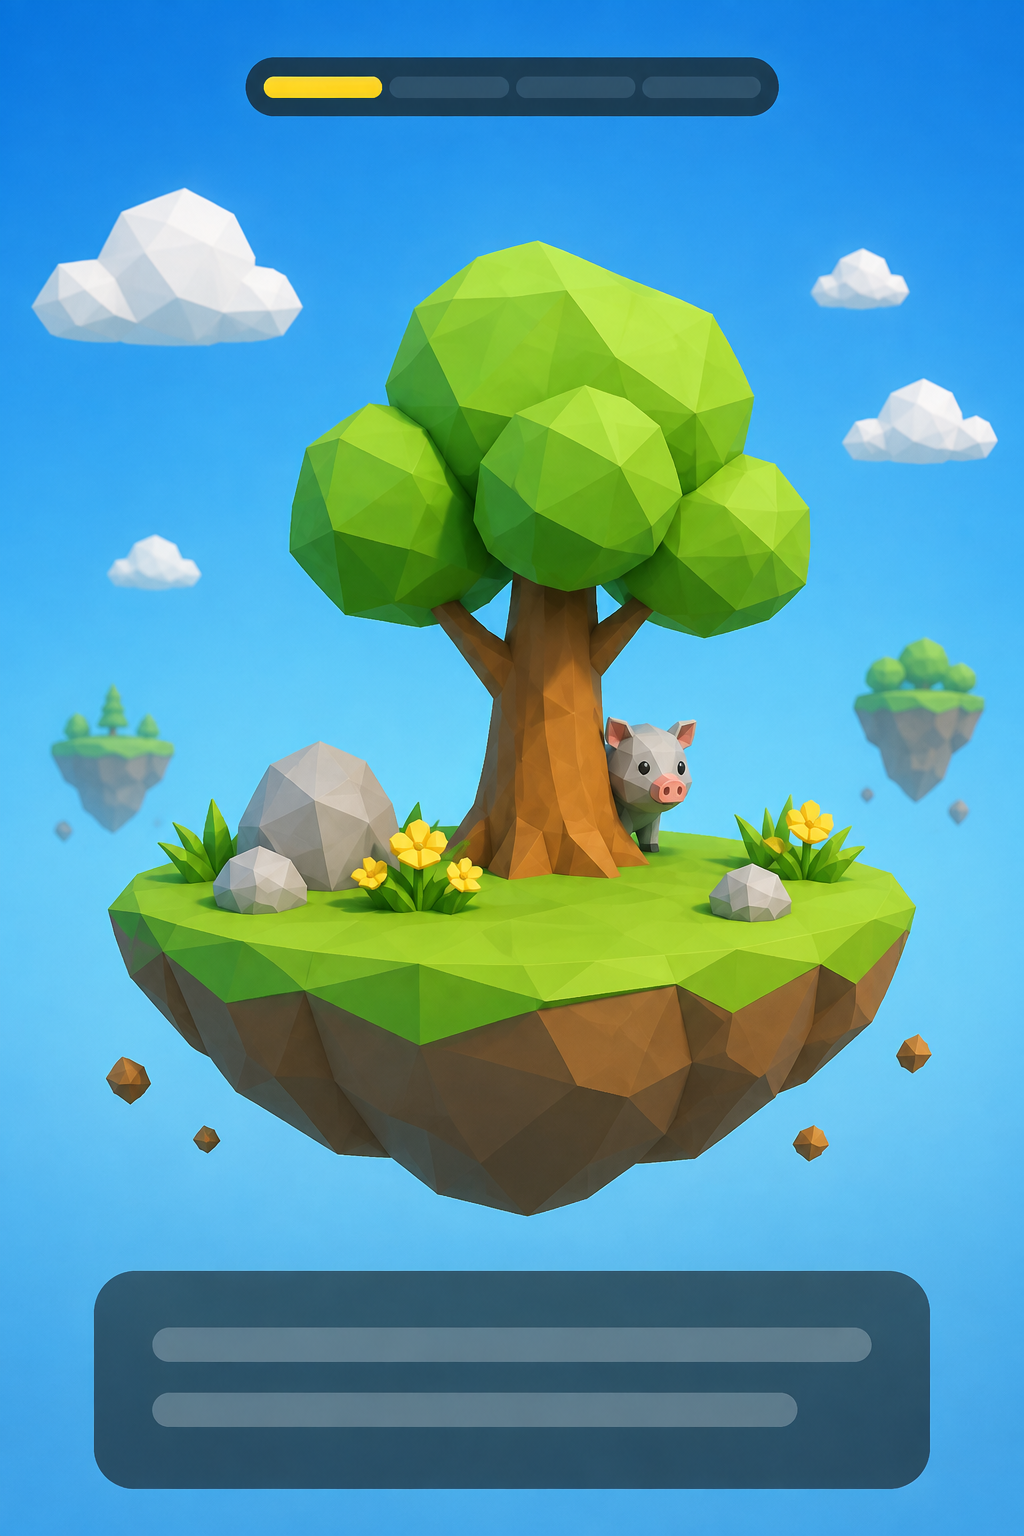
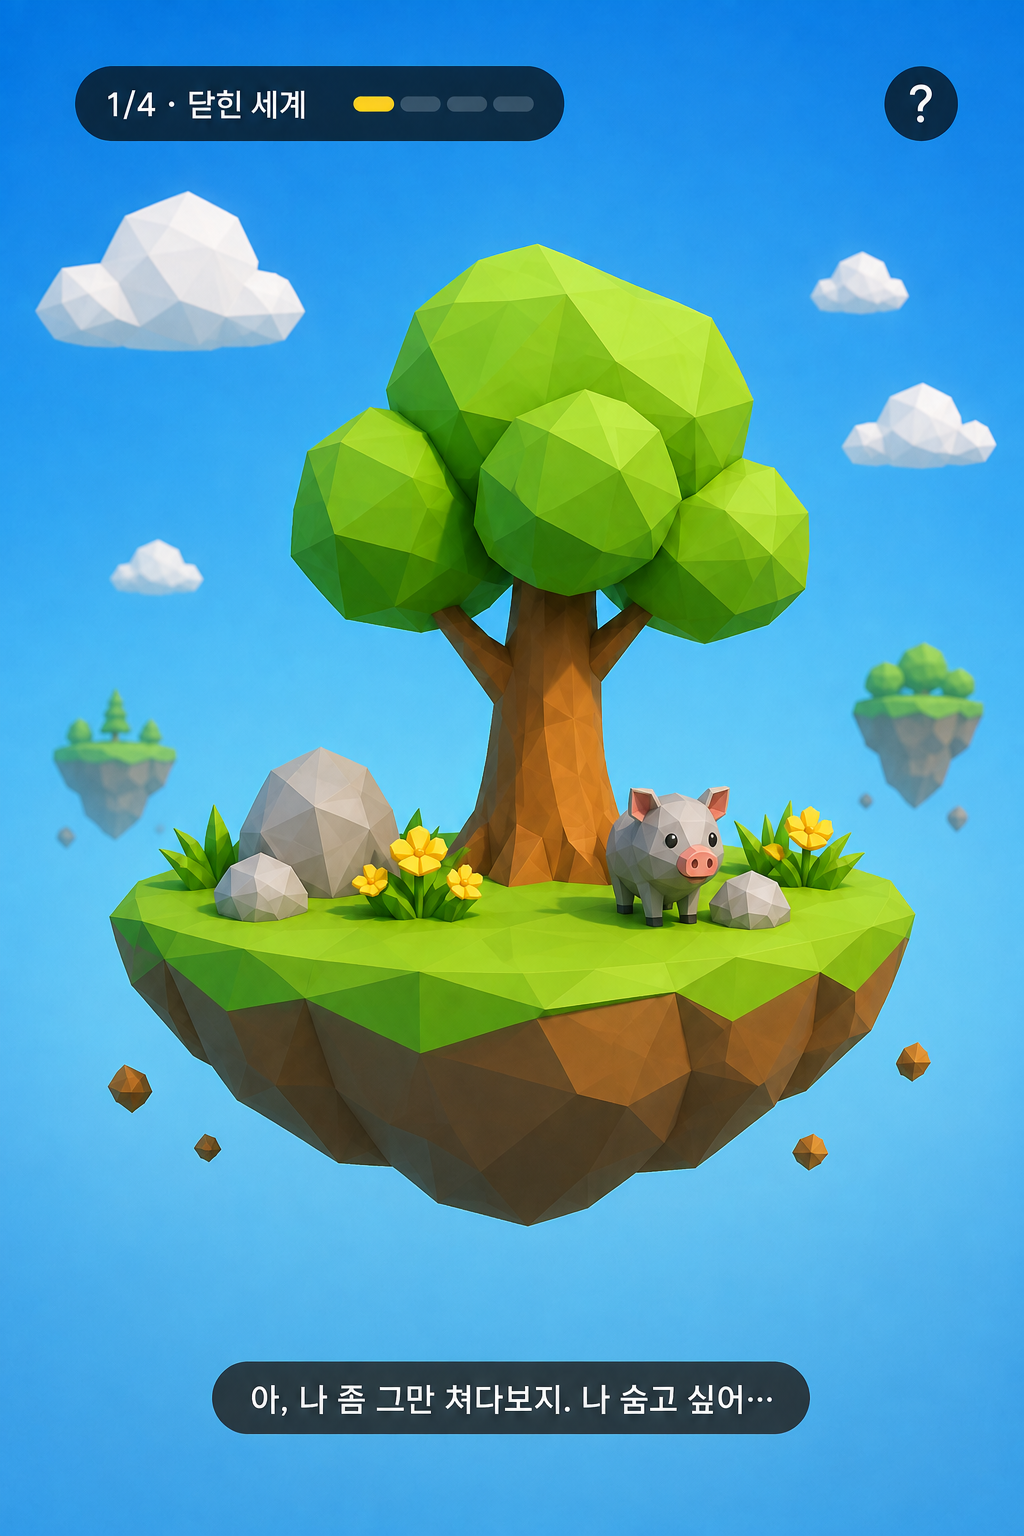
docs: refresh chapter screen illustrations and validation

diff --git a/docs/2026-09-07-app-screen-image-prompts.md b/docs/2026-09-07-app-screen-image-prompts.md
@@ -1,0 +1,36 @@
+# 앱 화면 컨셉 이미지 — 2026-09-07
+
+모드: 내장 이미지 생성 도구의 기존 이미지 편집. 실제 앱 실행 화면/실기기 캡처가 아닌 설명용 컨셉이다.
+기존 네 가로 챕터 그림은 보존하고, 네 세로 화면의 빈 UI를 코드에 있는 문구와 작은 안내로 교체한다.
+카메라 장면, 크기, 메시·가림은 예시이며 실측 증거가 아니다. 최종 이미지 검토와 채택 여부는 아래에 기록한다.
+
+## 채택 결과
+
+네 화면 모두 1024×1536 PNG이며 기존 세로 이미지 경로에 저장했다. 원 생성물은 그대로 보존했다.
+한글 문구, 낮은 설명창, 작은 돼지, 바닥 채움 제거, 비교 카드 두 축과 세 CTA를 눈으로 확인했다.
+진행 표시의 모양·위치, 서체·줄바꿈, 방의 생김새는 구현을 설명하기 위한 재구성으로 픽셀 단위 일치가 아니다.
+Chapter 4의 완료 문구는 정상 완료 경로의 **화면 예시**이며 실제 기기 검증 완료를 뜻하지 않는다.
+Chapter 3의 보이는 돼지 일부는 찾는 장면의 개념 표현으로 4/5 가림·3/5 발견 기준을 측정한 증거가 아니다.
+
+| 챕터 | 프로젝트 저장 경로 | SHA-256 |
+| --- | --- | --- |
[4 lines of base64/hex data omitted]
+
+## Chapter 1
+
+Use case: ui-mockup. Asset: polished Korean iOS educational app screen CONCEPT for Chapter 1 of a SceneKit/RealityKit tutorial. Edit target: supplied portrait image. Preserve its beautiful low-poly floating island, blue sky, green tree, flowers and gentle sunlight. Output portrait 1024x1536, no phone frame. Replace ALL blank placeholder UI. Top LEFT small black 76%-opaque capsule with white semibold exact text "1/4 · 닫힌 세계" and four TINY 9x4-like progress ticks inside, only first yellow. Top right small black circular question-mark help button. Keep upper UI within 8% of image height. Put small gray low-poly pig on the grass beside the tree, fully visible, height about one fifth of the trunk, not huge. Remove huge bottom blank panel. In its place at y around 82% a low black translucent rounded caption, height only 5% of image, with white readable Korean exact text "아, 나 좀 그만 쳐다보지. 나 숨고 싶어…". No other text. Refined crisp Korean typography, no faux text lines, no broad progress bar, no scan mesh, no dotted routes, no invented buttons or labels. Preserve the reference's illustrated atmosphere. Scene stays dominant and unobstructed. This is illustrative UI not a device capture.
+
+## Chapter 2
+
+Use case: ui-mockup. Asset: polished Korean iOS AR-scanning tutorial screen CONCEPT. Edit target: supplied portrait image. Preserve the warm low-poly living room, sofa, lamp, wooden floor and sunlight. Portrait 1024x1536 no phone frame. Replace all current UI and the dense scan visualization. Top LEFT small black 76%-opaque capsule, white semibold exact text "2/4 · 현실 열기", four TINY progress ticks inside only first two yellow. Top RIGHT small black circle with white question mark. Immediately below header two SMALL dark chips: mint check + exact text "공간 12개 영역"; mint check + "바닥 확인됨". UI top combined <=10% height. The central camera room must be clearly visible: sparse thin cyan triangle EDGES on limited measured sofa/wall patches, sparse thin yellow triangle EDGES on some floor patches, no filled polygons, no yellow carpet fill, no lattice covering entire room, no glowing nodes. Keep most surfaces unobstructed. No pig in Chapter 2. Bottom small dark rounded guidance bar of 4% height with white exact text "바닥과 공간을 찾았어. 준비되면 시작해줘." Then yellow rounded primary button below of 5% height, black exact text "숨바꼭질 시작". Keep bottom group within10% height with margin. Crisp accurate Korean, comfortable margins. No fake labels identifying furniture, no scan percentage, no giant panels, no dummy lines, no invented controls. This is an illustration of measured surface feedback, not an actual AR scan.
+
+## Chapter 3
+
+Use case: ui-mockup. Asset: polished Korean iOS AR hide-and-seek tutorial screen CONCEPT. Edit target: supplied portrait image. Preserve the beautiful warm low-poly living room with sofa arm, lamp, wood floor, small gray pig partly visible from behind the left edge of sofa. Pig stays very small relative to sofa, about 18cm against 80cm sofa, never fills camera; do not enlarge it. Portrait 1024x1536, no phone frame. Replace ALL existing blank UI with compact real app guidance. Top LEFT small black 76%-opaque capsule, exact white Korean label "3/4 · 현실 숨바꼭질", with four TINY progress ticks inside first three yellow. Top RIGHT black circular white question-mark help button. No giant top bar. Bottom dark translucent rounded guidance card only6% image height, modest left/right margins, exact Korean in two readable lines: "옆으로 움직이거나 카메라 방향을 바꿔" and "피기를 찾아봐." The middle90% of room remains visually open. No route line, no reticle in searching phase, no scan mesh, no arrows, no discovery button, no percentage, no object bounding boxes, no placeholder text lines. Crisp accurate Korean typography. This is a UI illustration after hiding while searching, not proof of actual five-point occlusion.
+
+## Chapter 4
+
+Use case: ui-mockup. Asset: polished Korean iOS tutorial Chapter 4 comparison screen CONCEPT. Edit target: supplied portrait image; preserve deep navy-to-teal palette, yellow CTA, blue SceneKit/mint RealityKit comparison accents, but replace all blank skeleton bars with legible accurate interface and simplify layout. Portrait1024x1536 no phone frame. Top left small black capsule exact "4/4 · 두 세계 비교" and four TINY yellow progress ticks, top right question-mark circle. Main left-aligned content below: small gold "CHAPTER 4 · COMPARISON"; bold white title "두 세계의 책임을 비교해봐"; smaller white subtitle "같은 피기를 움직여도 세계, 좌표, 앞뒤 관계를 만드는 주체는 달라." Rounded dark teal summary with mint check, title "현실 숨바꼭질을 끝냈어", supporting copy "실제 물체 뒤로 숨기고, 직접 움직여 피기를 다시 찾는 흐름까지 완료했어." Next two dark rounded comparison cards, each question then TWO SIDE-BY-SIDE answer panels: first question "세계를 어디서 얻는가?", blue label "SCENEKIT · 닫힌 세계" answer "개발자가 노드와 좌표로 구성한다.", mint label "REALITYKIT · 현실 연결" answer "AR session이 관찰한 현실 공간을 함께 사용한다."; second question "위치의 기준은 무엇인가?", same labels, respective answers "장면 원점과 부모 노드가 기준이다." and "현실의 추적 좌표와 anchor가 기준이다." Generous readable text, not tiny cramped. Remaining questions are offscreen scroll content, do not cram extra cards. Bottom dark fixed action area with THREE full-width buttons stacked vertically: yellow primary black text "튜토리얼 완료"; outlined secondary white "Chapter 3 다시 하기"; subdued tertiary white "처음부터 다시 보기". No dummy blank lines, no decorative charts, no invented metrics. This illustrates completed-route design, not verified device completion.

diff --git a/docs/LEARNING_LOG.md b/docs/LEARNING_LOG.md
@@ -28,6 +28,50 @@
 
 ## 항목
 
+### L-20260907-167 — 예제의 테스트 출처 주석이 존재하지 않는 파일을 가리킴
+
+- 상태: 해결
+- 발생 태스크: AR 사용성 개선 4 — 문서 출처 정확성
+- 재현: 스캔 예제의 Contract tests 주석과 `PiggyEscape/PiggyEscapeTests/RealityMeshScanProjectorTests.swift` 경로를 대조했다.
+- 관찰: 해당 파일이 없는데도 기존 gate는 주석의 존재만 확인해 통과했다.
+- 영향: 독자가 예제의 검증 근거를 따라갈 수 없고, 없는 테스트를 존재하는 것처럼 설명할 수 있다.
+- 원인: 출처 주석의 형식과 실제 파일 존재 여부가 분리되어 있었다.
+- 조치: 없는 경로는 제거하고 모든 예제의 Production/Contract tests 출처 파일 존재 여부를 content gate에서 검사한다. 문서를 맞추기 위한 빈 테스트는 추가하지 않는다.
+- 검증: 새 출처 검사가 실제로 없는 `RealityMeshScanProjectorTests.swift`와 `RealityWalkClearanceTests.swift` 두 경로를 실패로 검출했다. 허위 선언 제거 뒤 최종 content gate exit 0, 독립 iPhoneOS 예제 12/12 typecheck를 확인했다. 모든 Production/Contract tests 선언은 저장소 내부의 실제 파일인지 검사한다.
+
+### L-20260907-166 — 튜토리얼 Step의 세 번째 설명 문단은 버려짐
+
+- 상태: 해결
+- 발생 태스크: AR 사용성 개선 4 — 학습 문서와 이미지 연결
+- 재현: `bash scripts/build-docc-site.sh /tmp/piggy-polish-image-check`.
+- 관찰: 작성 중 Chapter 3의 Step에 추가한 학습 sheet 설명이 세 번째 문단이 되어 extraneous element 경고를 발생시켰다. 경고를 실패로 처리하는 build gate가 exit 1로 중단했다. 이후 재시도에서는 해당 경고가 사라졌으나 예제 파일 교체 중의 resource missing을 관찰했다.
+- 영향: 그 문단의 학습 설명이 산출물에서 누락될 수 있다.
+- 원인: DocC Step은 지시 문단 하나와 선택적인 캡션 문단만 허용한다.
+- 조치: 해당 학습 설명을 Section 본문으로 옮기도록 문서 작성에 반영한다. 파일 교체 중의 일시적 스냅샷을 최종 결과로 평가하지 않고, 작성 완료 보고 뒤 통합 gate를 실행한다.
+- 검증: 최종 출처·캡션 수정까지 포함하여 `/tmp/piggy-ar-polish-docc-final`로 archive를 새로 빌드해 경고 없이 exit 0. 구조·이미지 검증과 desktop/mobile × light/dark의 44회 렌더, 내부 링크 100개, no-slash 이동 10개도 exit 0으로 확인했다.
+
+### L-20260907-165 — 격리된 Release 빌드가 workspace 로딩 전에 종료됨
+
+- 상태: 해결
+- 발생 태스크: AR 사용성 개선 5 — generic iPhoneOS Release 확인
+- 재현: `xcodebuild -workspace PiggyEscape.xcworkspace -scheme PiggyEscape -configuration Release -destination 'generic/platform=iOS' -derivedDataPath /tmp/piggy-ar-polish-release CODE_SIGNING_ALLOWED=NO build`.
+- 관찰: 기본 격리 환경에서 cache/log 접근 거절과 workspace 인식 오류, exit 66. 컴파일 단계에는 도달하지 않았다.
+- 영향: Release 검증이 아직 성립하지 않았다. 이전 Swift 5/6 Debug compile 결과와 이번 정책 48/48은 별개로 유효하다.
+- 원인/가설: 개발 도구의 workspace 및 캐시 접근 제한을 먼저 확인한다.
+- 조치: 경로를 읽기 전용으로 확인한 뒤 동일 iPhoneOS 빌드에 필요한 권한으로 재실행한다. Simulator를 부팅하거나 대상으로 선택하지 않는다.
+- 검증: 경로와 workspace 파일은 존재했다. 필요한 개발 도구 접근 권한으로 같은 generic iPhoneOS Release 명령을 재실행해 exit 0과 BUILD SUCCEEDED를 확인했다. 실제 기기 실행·시각 수용은 포함하지 않았다.
+
+### L-20260907-164 — 공개 문서 확인과 브라우저 gate의 환경 권한 경계
+
+- 상태: 해결
+- 발생 태스크: AR 사용성 개선 4–5 — DocC·공개 화면 검증
+- 재현: 공개 튜토리얼 URL 열기, 기본 격리 환경의 `gh repo view` 및 `npm run test:docc-browser`.
+- 관찰: 웹 읽기는 safe-open 오류, 저장소 읽기는 연결 실패, 브라우저 gate는 `listen EPERM 127.0.0.1`로 종료했다. 권한을 확보한 HTTP 확인은 200, 저장소 조회는 정확한 공개 저장소와 기존 성공 배포를 반환했다.
+- 영향: 사이트 장애나 코드 회귀가 아니라 접근 경로별 검증 한계다. 공개 사이트는 9월 3일 버전으로 최신 개선은 아직 미배포다.
+- 원인/가설: loopback listen 제한은 이전 L-20260903-157과 같은 환경 제한이다. 웹 읽기의 safe-open 이유는 확인하지 못했다.
+- 조치: 브라우저 검사에 필요한 loopback 및 실행 권한을 확보해 동일 gate를 다시 실행한다. Simulator를 대체 수단으로 실행하지 않는다.
+- 검증: 순수 Swift 정책은 같은 체크포인트에서 48/48·0 failures 재확인. 필요한 권한으로 재실행한 브라우저 failure contract 13/13·0 failures·exit 0. 공개 overview도 실제 브라우저에서 정상 표시되었다.
+
 ### L-20260907-163 — 최신 AR 사용성 변경의 실기기 검증은 연결 불가로 보류
 
 - 상태: 실기기 대기

diff --git a/docs/WORK_LOG.md b/docs/WORK_LOG.md
@@ -4,6 +4,8 @@
 
 ## 현재 인수인계
 
+- **2026-09-07 이미지·문서 최종 로컬 검증**: 네 세로 화면을 작은 HUD·읽을 수 있는 한국어 안내·채움 없는 스캔 선·작은 돼지·비교 카드가 보이는 1024×1536 설명용 컨셉으로 교체했다. 기존 가로 그림 네 장은 보존했다. [이미지 제작·채택 기록](2026-09-07-app-screen-image-prompts.md)에 저장 경로·원본 보존·해시·표현 한계를 남겼다. 최종 content gate와 독립 예제 12/12, 경고 없는 DocC archive, 이미지 8개의 해시·완전 디코딩·산출물 일치, 44회 브라우저 렌더·내부 링크 100개·no-slash 이동 10개가 모두 통과했다. generic iPhoneOS Release도 exit 0이며 AppIntents 의존성이 없는 프로젝트의 metadata 경고 1건만 있었다. 공개 배포는 최종 검토 후 진행한다. 실기기 연결이 어려워 실제 화면·LiDAR 수용은 계속 대기하며 Simulator는 사용하지 않았다.
+
 - **2026-09-07 추가 사용성 체크포인트**: `codex/ar-usability-polish`에서 [AR 개선 계획](superpowers/plans/2026-09-07-ar-usability-polish.md) 1–3의 코드를 구현했다. 큰 AR 설명창을 작은 챕터/상태 HUD와 별도 학습 sheet로 분리했고, 실제 frame의 메시·바닥·tracking을 4Hz로 계속 표시한다. 채움 없는 실제 삼각형 최대 120개와 선택 전 옆면/거리/바닥 preview를 추가했다. 돼지는 측면 경로를 실제 몸통 convex cast로 검사한 뒤 제자리 회전·0.45m/s scene-time 이동을 사용하며, 이동 중 장애물/중단이면 선택으로 복구한다. 코드 검토의 sheet 뒤 발견 콜백·불안정 tracking·C3 busy 상태·가로 안내 clipping을 보수했다.
 - **이번 검증과 다음 작업**: 실제 production Swift를 사용하는 host XCTest 48/48·0 failures, generic iPhoneOS Swift 5와 Swift 6 strict app/test bundle compile/link 각각 exit 0이며 테스트 정적 inventory 222개다. 222개 전체의 iPhone runtime과 AR 시각 수용을 실행한 것은 아니다. 사용자가 현재 iPhone 연결이 어렵다고 답했고 Simulator는 실행하지 않았다. 다음은 새 HUD/측면 경로에 맞춘 **DocC·예제 코드·학습 이미지 교체와 공개 Pages 동기화**이며 아직 그 변경을 배포하지 않았다. 아래 기록의 190개/9월 3일 Pages 배포는 직전 기준선이다.
 - **2026-09-07 DocC 정합화 체크포인트**: 네 챕터와 심화 문서를 앱 학습 창의 관찰→의미→책임 코드→복구 흐름에 맞췄다. Chapter 2는 first-ready latch와 최대 4Hz 현재 telemetry, 긴급 tracking 변화, 실제 삼각형 최대 120개의 채움 없는 선, 현재 상태 CTA와 중앙 preview·tap 재검사를 설명한다. Chapter 3은 bounded 측면 route·몸통 `convexCast`, 제자리 회전·0.45m/s scene-time 이동, live obstruction·tracking 무효·학습 sheet 수명을 연결한다. 기존 12개 예제·step pairing을 유지했으며 content gate와 독립 iPhoneOS type-check 12/12가 통과했다. 실제 LiDAR 시각 수용과 공개 Pages build·브라우저 검증·배포는 아직 완료하지 않았다.
